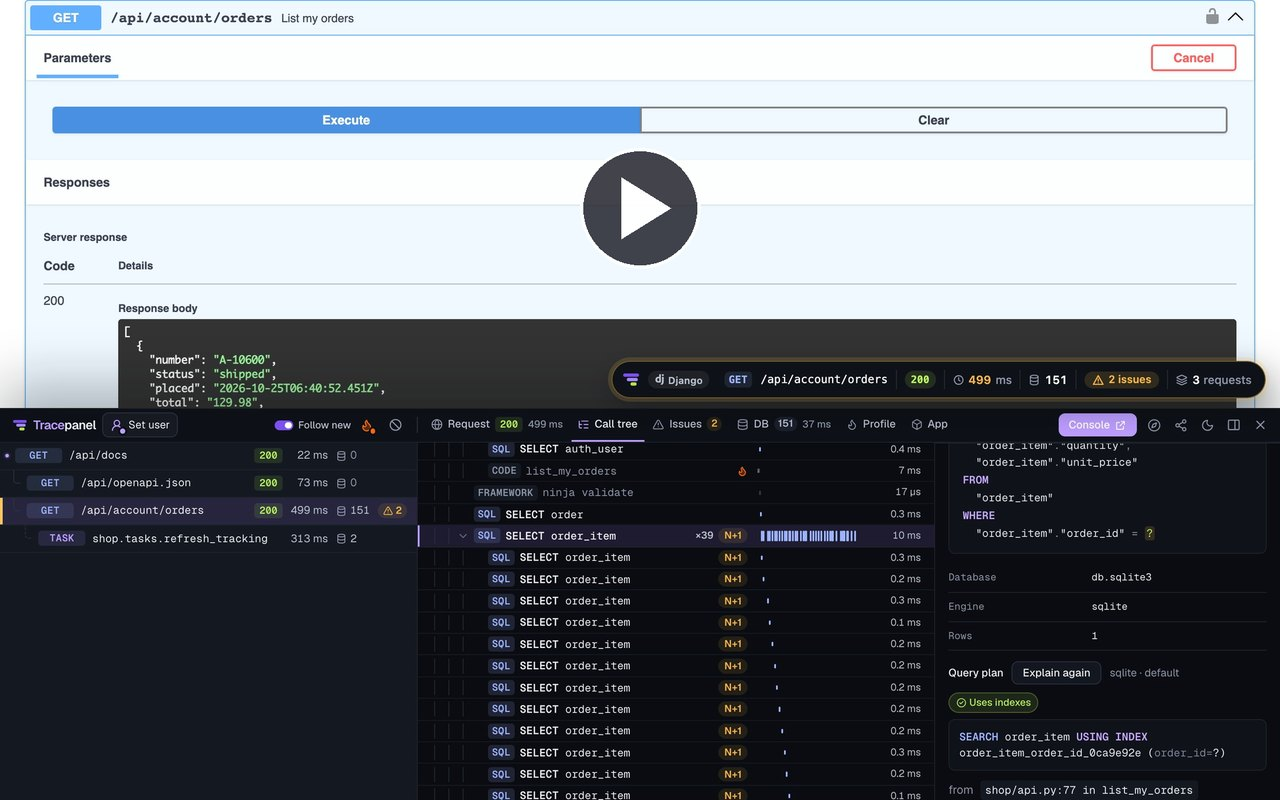
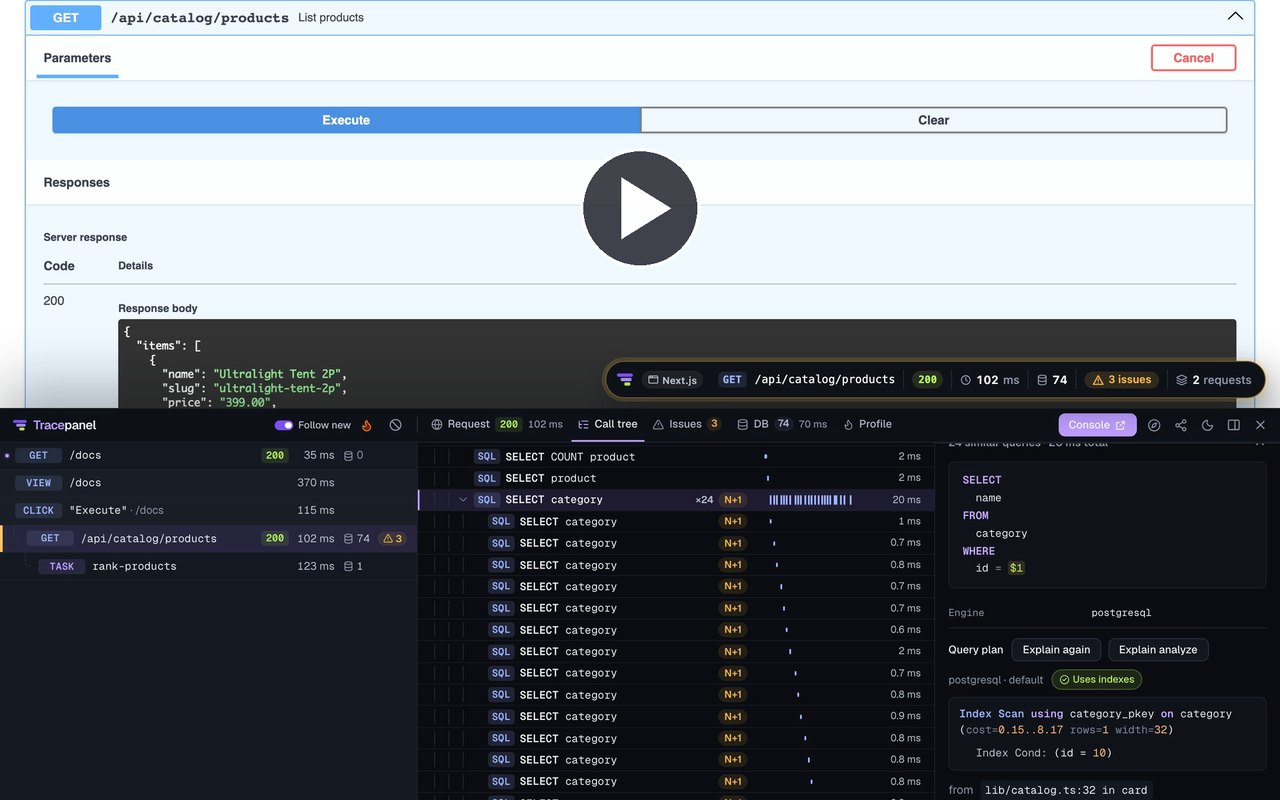
README: the JavaScript demo video

diff --git a/README.md b/README.md
@@ -12,9 +12,9 @@ line of code to fix. You read it in a panel on your pages and in a console.
 
 It runs while you develop, and everything stays on your machine.
 
-[![A 40-second demo: Swagger UI's Try it out on an endpoint, and the panel docked under it with the request's call tree, an N+1 with its query plan, a background task, its profile, and the same call after the fix](https://raw.githubusercontent.com/tracepanel/tracepanel-js/main/assets/demo-video.jpg)](https://tracepanel.dev/video/demo.mp4)
+[![A 40-second demo of a Next.js store: Swagger UI's Try it out on an endpoint, and the panel docked under it with the request's call tree, an N+1 with its query plan and line, a BullMQ job, the CPU profile, and the same call after the fix](https://raw.githubusercontent.com/tracepanel/tracepanel-js/main/assets/demo-video.jpg)](https://tracepanel.dev/video/demo-js.mp4)
 
-▶ [Watch the 40-second demo](https://tracepanel.dev/video/demo.mp4)
+▶ [Watch the 40-second demo](https://tracepanel.dev/video/demo-js.mp4)
 
 ## Works with
 
